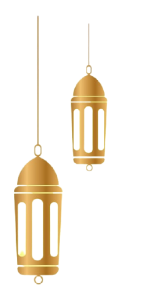
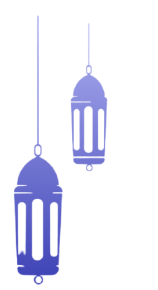
Update v.3

Changed region(s): [[0.0759, 0.031, 0.4051, 0.9931], [0.4304, 0.0931, 0.6835, 0.5897]]

diff --git a/css/style.css b/css/style.css
@@ -2,7 +2,7 @@
 @import url("https://fonts.googleapis.com/css2?family=Merienda+One&display=swap");
 * {
   font-family: "Poppins", sans-serif;
-  color: #b69d5b;
+  color: #3439b0;
 }
 
 p {
@@ -184,45 +184,45 @@ p {
 
 @keyframes rotate1 {
   0% {
-    transform: rotate(0deg) scale(0.7);
+    transform: scale(0.7);
   }
 
   25% {
-    transform: rotate(10deg) scale(1);
+    transform: scale(1);
   }
 
   50% {
-    transform: rotate(0deg) scale(1.2);
+    transform: scale(1.2);
   }
 
   75% {
-    transform: rotate(-10deg) scale(1);
+    transform: scale(1);
   }
 
   100% {
-    transform: rotate(0deg) scale(0.7);
+    transform: scale(0.7);
   }
 }
 
 @keyframes rotate2 {
   0% {
-    transform: rotate(10deg) scale(1);
+    transform: scale(1);
   }
 
   25% {
-    transform: rotate(0deg) scale(0.7);
+    transform: scale(0.7);
   }
 
   50% {
-    transform: rotate(-10deg) scale(1.2);
+    transform: scale(1.2);
   }
 
   75% {
-    transform: rotate(0deg) scale(0.7);
+    transform: scale(0.7);
   }
 
   100% {
-    transform: rotate(10deg) scale(1);
+    transform: scale(1);
   }
 }
 
@@ -239,8 +239,8 @@ p {
   top: 0;
   left: 0;
   position: absolute;
-  animation: rotate1 7s infinite;
-  opacity: 0.8;
+  animation: rotate1 7s ease-in infinite;
+  opacity: 0.5;
 }
 
 .frame2 {
@@ -248,8 +248,8 @@ p {
   top: 0;
   right: 0;
   position: absolute;
-  animation: rotate2 7s infinite;
-  opacity: 0.8;
+  animation: rotate2 7s ease-in infinite;
+  opacity: 0.5;
 }
 @media (min-width: 992px) {
   .banner {
